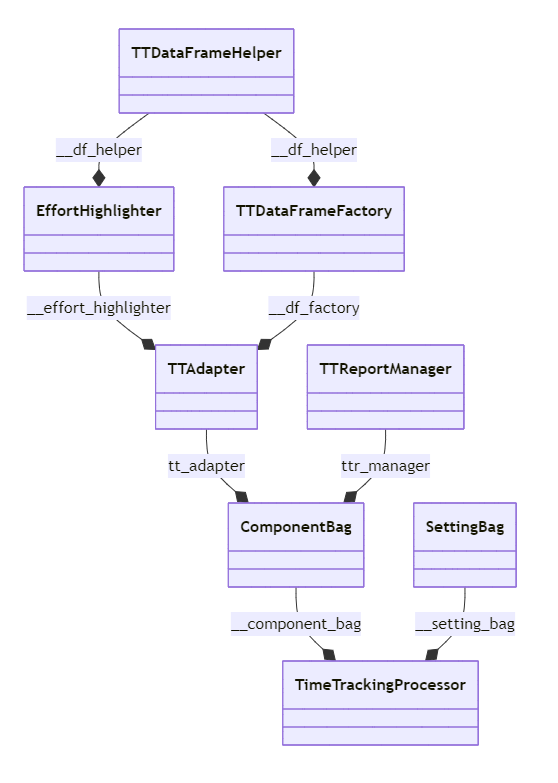
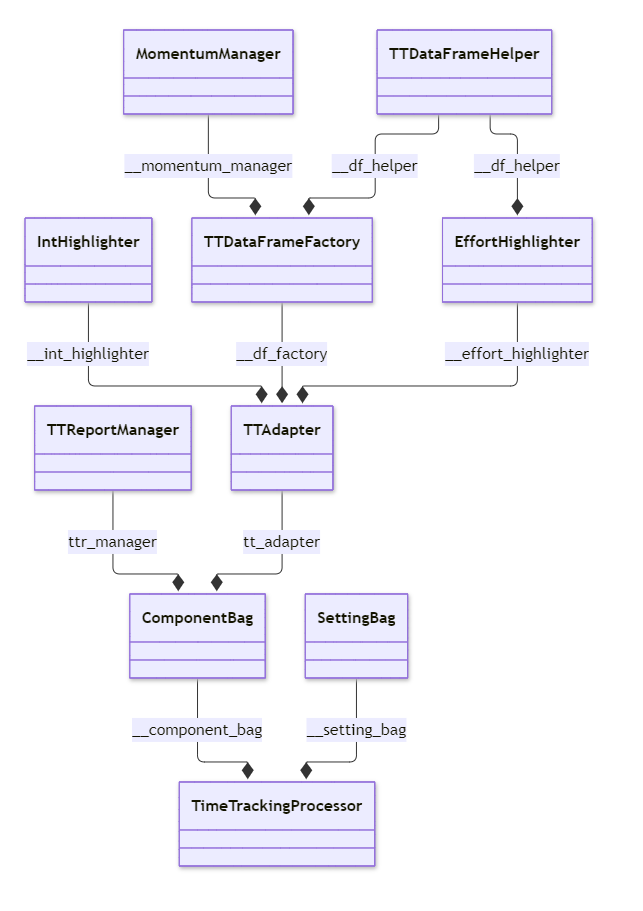
#62 Diagram-Architecture*: updated.

Changed region(s): [[0.0305, 0.0307, 0.9444, 0.9808], [0.7312, 0.6437, 0.9444, 0.7663], [0.853, 0.8582, 0.8835, 0.9502]]

diff --git a/docs/Diagrams/Diagram-Architecture.md b/docs/Diagrams/Diagram-Architecture.md
@@ -2,6 +2,8 @@
 classDiagram
   ComponentBag --* TimeTrackingProcessor : __component_bag
   EffortHighlighter --* TTAdapter : __effort_highlighter
+  IntHighlighter --* TTAdapter : __int_highlighter
+  MomentumManager --* TTDataFrameFactory : __momentum_manager
   SettingBag --* TimeTrackingProcessor : __setting_bag
   TTAdapter --* ComponentBag : tt_adapter
   TTDataFrameFactory --* TTAdapter : __df_factory
